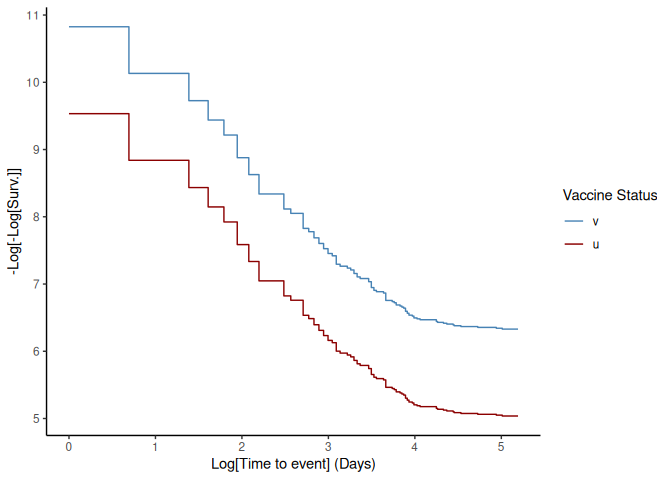
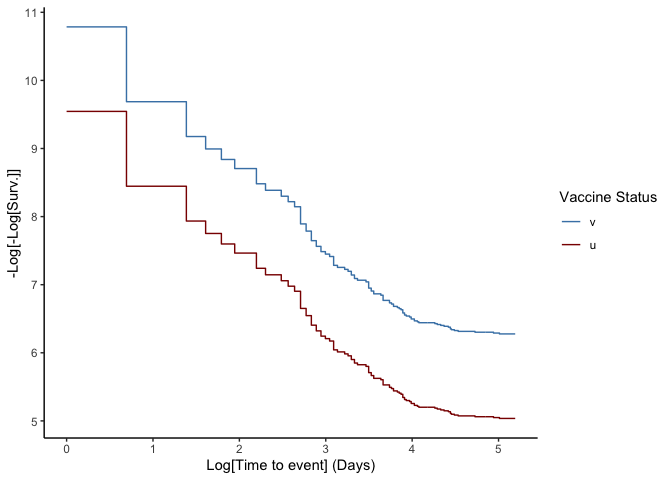
fix(cran): updates to resolve failing checks (#140)
* update
* replace snapshot with manual check for now
* correct news
* update cran comments for patch release

diff --git a/NEWS.md b/NEWS.md
@@ -1,19 +1,23 @@
 # vaccineff (development version)
 
+# vaccineff 1.0.1
+
+`{vaccineff 1.0.1}` patches the package's tests to fix failing CRAN checks.
+
 # vaccineff 1.0.0
 
-`{vaccineff 1.0.0}` refactors the package's internal structure for better 
+`{vaccineff 1.0.0}` refactors the package's internal structure for better
 maintainability.
 
 ## Breaking Changes
 
-* **`estimate_vaccineff()`** replaces `effectiveness()`.  
-  - It returns an object of class `vaccineff`.  
+* **`estimate_vaccineff()`** replaces `effectiveness()`.
+  - It returns an object of class `vaccineff`.
   - The `at` parameter must always be provided for accurate results.
 
 * **`plot.vaccineff_data()`** replaces `plot_coverage()`.
 
-* **`cohortdata`** has been simplified and reduced to improve examples and 
+* **`cohortdata`** has been simplified and reduced to improve examples and
   reduce computation time.
 
 
@@ -22,39 +26,39 @@ maintainability.
 
 ## New Features
 
-`{vaccineff 0.0.4}` simplifies data handling by using 
-[`linelist`](https://github.com/epiverse-trace/linelist) objects. Tags are 
-assigned to the outcome, censoring, and vaccine dates using the function 
+`{vaccineff 0.0.4}` simplifies data handling by using
+[`linelist`](https://github.com/epiverse-trace/linelist) objects. Tags are
+assigned to the outcome, censoring, and vaccine dates using the function
 `make_vaccineff_data()`, reducing redundancy in function input parameters.
 
-The new pipeline includes the following three functions and complementary 
+The new pipeline includes the following three functions and complementary
 methods: `summary` and `plot`.
 
-* **`make_vaccineff_data()`**: This function returns an S3 object of the class 
-  `vaccineff_data()` with the study's relevant information. It also allows 
-  the creation of a matched cohort to control for confounding variables by 
-  setting `match = TRUE` and passing the appropriate `exact` and `nearest` 
-  arguments. The method `summary()` can be used to check cohort 
-  characteristics, matching balance, and the sizes of matched, excluded, 
+* **`make_vaccineff_data()`**: This function returns an S3 object of the class
+  `vaccineff_data()` with the study's relevant information. It also allows
+  the creation of a matched cohort to control for confounding variables by
+  setting `match = TRUE` and passing the appropriate `exact` and `nearest`
+  arguments. The method `summary()` can be used to check cohort
+  characteristics, matching balance, and the sizes of matched, excluded,
   and removed populations.
 
-* **`plot_coverage()`**: This function returns a plot of the vaccine coverage 
-  or cumulative coverage. If the population is matched, the plot includes 
+* **`plot_coverage()`**: This function returns a plot of the vaccine coverage
+  or cumulative coverage. If the population is matched, the plot includes
   the resulting count of doses after matching.
 
-* **`effectiveness()`**: This function provides methods for estimating VE using 
-  the $HR$. A summary of the estimation is available via `summary()`, and 
+* **`effectiveness()`**: This function provides methods for estimating VE using
+  the $HR$. A summary of the estimation is available via `summary()`, and
   a graphical representation of the methodology is generated by `plot()`.
 
 ## Breaking changes
 
-The following functions are no longer accessible to users, but they are called 
+The following functions are no longer accessible to users, but they are called
 within `make_vaccineff_data()`:
 
 * `make_immunization()`
 * `match_cohort()`
 
-The `plot()` method returns `log-log` and `survival` type plots when receiving 
+The `plot()` method returns `log-log` and `survival` type plots when receiving
 an object of type `effectiveness`. This deprecates the functions `plot_survival()`
 and `plot_loglog()`.
 
@@ -72,35 +76,35 @@ pairs can be made. The usage of all the functions remains unchanged by this upda
 # vaccineff 0.0.2
 ## New Features
 
-The number of functions and steps for computing vaccine effectiveness has 
-been drastically reduced in `{vaccineff 0.0.2}`. The new pipeline for 
+The number of functions and steps for computing vaccine effectiveness has
+been drastically reduced in `{vaccineff 0.0.2}`. The new pipeline for
 estimation now consists of three main functions:
 
-* **`make_immunization()`**: Prepares information on immunization dates 
-  and vaccine status. It can handle multiple columns for vaccine dates and 
-  custom vaccine statuses. In such cases, it returns the name of the column 
+* **`make_immunization()`**: Prepares information on immunization dates
+  and vaccine status. It can handle multiple columns for vaccine dates and
+  custom vaccine statuses. In such cases, it returns the name of the column
   selected as immunizing and the custom name, if provided.
 
-* **`match_cohort()`**: This function has been improved and generalized 
-  to reduce observation bias in cohorts. The default matching strategy is 
-  static, based on nearest and exact characteristics using Mahalanobis 
-  distance. The exposure times of the pairs are adjusted after matching. In 
-  future releases, rolling calendar matching will be introduced as a more 
-  accurate method to account for exposure times. The function returns an S3 
-  object of class `match`, from which a summary and balance of the cohorts 
-  can be printed using the `summary()` method. The matched cohort can be 
-  extracted using the `get_dataset()` method. The matched cohort contains 
+* **`match_cohort()`**: This function has been improved and generalized
+  to reduce observation bias in cohorts. The default matching strategy is
+  static, based on nearest and exact characteristics using Mahalanobis
+  distance. The exposure times of the pairs are adjusted after matching. In
+  future releases, rolling calendar matching will be introduced as a more
+  accurate method to account for exposure times. The function returns an S3
+  object of class `match`, from which a summary and balance of the cohorts
+  can be printed using the `summary()` method. The matched cohort can be
+  extracted using the `get_dataset()` method. The matched cohort contains
   all the necessary information to estimate vaccine effectiveness.
 
-* **`effectiveness()`**: Receives a (matched) cohort and estimates vaccine 
-  effectiveness using the Hazard Ratio (HR). An S3 object of class 
-  `effectiveness` is returned, compatible with the `plot()` and `summary()` 
-  methods. Future releases will provide relative risk (RR) as an alternative 
+* **`effectiveness()`**: Receives a (matched) cohort and estimates vaccine
+  effectiveness using the Hazard Ratio (HR). An S3 object of class
+  `effectiveness` is returned, compatible with the `plot()` and `summary()`
+  methods. Future releases will provide relative risk (RR) as an alternative
   for cases where the proportional hazards assumption is not satisfied.
 
 ## Breaking Changes
 
-The following functions are no longer accessible to users. However, they 
+The following functions are no longer accessible to users. However, they
 are called within `make_immunization()`:
 
 * `get_immunization_date()`
@@ -108,6 +112,6 @@ are called within `make_immunization()`:
 * `get_immunization_vaccine()`
 * `set_status()`
 
-Similarly, the `effectiveness()` function deprecates the use of 
-`coh_eff_noconf()`, and the `plot()` method now returns a log-log plot, 
+Similarly, the `effectiveness()` function deprecates the use of
+`coh_eff_noconf()`, and the `plot()` method now returns a log-log plot,
 replacing the `plot_loglog()` function.

diff --git a/README.md b/README.md
@@ -1,5 +1,5 @@
 
-## *vaccineff*: Tools for estimating vaccine effectiveness and vaccine related metrics <img src="man/figures/logo.png" align="right" width="130"/>
+## *{{ packagename }}*: Tools for estimating vaccine effectiveness and vaccine related metrics <img src="man/figures/logo.png" align="right" width="130"/>
 
 <!-- badges: start -->
 
@@ -18,18 +18,19 @@ status](https://www.r-pkg.org/badges/version/vaccineff)](https://CRAN.R-project.
 
 <!-- badges: end -->
 
-*vaccineff* is developed at [Pontificia Universidad
+*{{ packagename }}* is developed at [Pontificia Universidad
 Javeriana](https://www.javeriana.edu.co/inicio) as part of the
 [Epiverse-TRACE initiative](https://data.org/initiatives/epiverse/).
 
-*vaccineff* is an R package that offers tools for estimating vaccine
-effectiveness (VE), using a series of epidemiological designs including
-cohort studies, test-negative case-control, and screening methods
-([Halloran, Longini, and Struchiner 2010](#ref-bookvaccine)). The
-current version of the package provides a set of features for preparing,
-visualizing, and managing cohort data, estimating vaccine effectiveness,
-and assessing the performance of the models. Test-negative design and
-screening method will be included in future versions.
+*{{ packagename }}* is an R package that offers tools for estimating
+vaccine effectiveness (VE), using a series of epidemiological designs
+including cohort studies, test-negative case-control, and screening
+methods ([Halloran, Longini, and Struchiner 2010](#ref-bookvaccine)).
+The current version of the package provides a set of features for
+preparing, visualizing, and managing cohort data, estimating vaccine
+effectiveness, and assessing the performance of the models.
+Test-negative design and screening method will be included in future
+versions.
 
 ## Installation
 
@@ -39,25 +40,25 @@ Our stable versions are released on CRAN, and can be installed using:
 install.packages("vaccineff", build_vignettes = TRUE)
 ```
 
-The current development version of *vaccineff* can be installed from
-[GitHub](https://github.com/) using the `pak` package.
+The current development version of *{{ packagename }}* can be installed
+from [GitHub](https://github.com/) using the `pak` package.
 
 ``` r
 if(!require("pak")) install.packages("pak")
-pak::pak("epiverse-trace/vaccineff")
+pak::pak("{{ gh_repo }}")
 ```
 
 Or using the `remotes` package
 
 ``` r
 if(!require("remotes")) install.packages("remotes")
-remotes::install_github("epiverse-trace/vaccineff")
+remotes::install_github("{{ gh_repo }}")
 ```
 
 ## Quick start
 
-*vaccineff* provides a minimal cohort dataset that can be used to test
-out the models.
+*{{ packagename }}* provides a minimal cohort dataset that can be used
+to test out the models.
 
 ``` r
 # Load example `cohortdata` included in the package
@@ -111,10 +112,10 @@ ve <- estimate_vaccineff(vaccineff_data, at = 180)
 summary(ve)
 #> Vaccine Effectiveness at 180 days computed as VE = 1 - HR:
 #>      VE lower.95 upper.95
-#>  0.7254   0.5437   0.8347
+#>  0.7109   0.5245   0.8243
 #> 
 #> Schoenfeld test for Proportional Hazards assumption:
-#> p-value = 0.1507
+#> p-value = 0.0631
 
 # Generate loglog plot to check proportional hazards
 plot(ve, type = "loglog")
@@ -124,8 +125,8 @@ plot(ve, type = "loglog")
 
 ## Package vignettes
 
-More details on how to use *vaccineff* can be found in the [online
-documentation as package
+More details on how to use *{{ packagename }}* can be found in the
+[online documentation as package
 vignettes](https://epiverse-trace.github.io/vaccineff/), and in the
 articles “Get Started with vaccineff” and “Introduction to cohort design
 with vaccineff”.
@@ -137,8 +138,9 @@ To report a bug or to request a new feature please open an
 
 ## Contribute
 
-Contributions to *vaccineff* are welcomed. Contributions are welcome via
-[pull requests](https://github.com/epiverse-trace/vaccineff/pulls).
+Contributions to *{{ packagename }}* are welcomed. Contributions are
+welcome via [pull
+requests](https://github.com/epiverse-trace/vaccineff/pulls).
 
 Contributors to the project include:
 
@@ -159,8 +161,8 @@ Otero](https://github.com/jd-otero)
 
 ## Code of conduct
 
-Please note that the *vaccineff* project is released with a [Contributor
-Code of
+Please note that the *{{ packagename }}* project is released with a
+[Contributor Code of
 Conduct](https://github.com/epiverse-trace/.github/blob/main/CODE_OF_CONDUCT.md).
 By contributing to this project, you agree to abide by its terms.
 

diff --git a/cran-comments.md b/cran-comments.md
@@ -2,10 +2,4 @@
 
 0 errors | 0 warnings | 0 note
 
-* This is a new release.
-
-## Resubmission
-
-Fixed broken links in README.md
-
-Fixed notes generated by old CRAN-SUMISSION file
+* This patch release fixes errors that risk CRAN archival.
